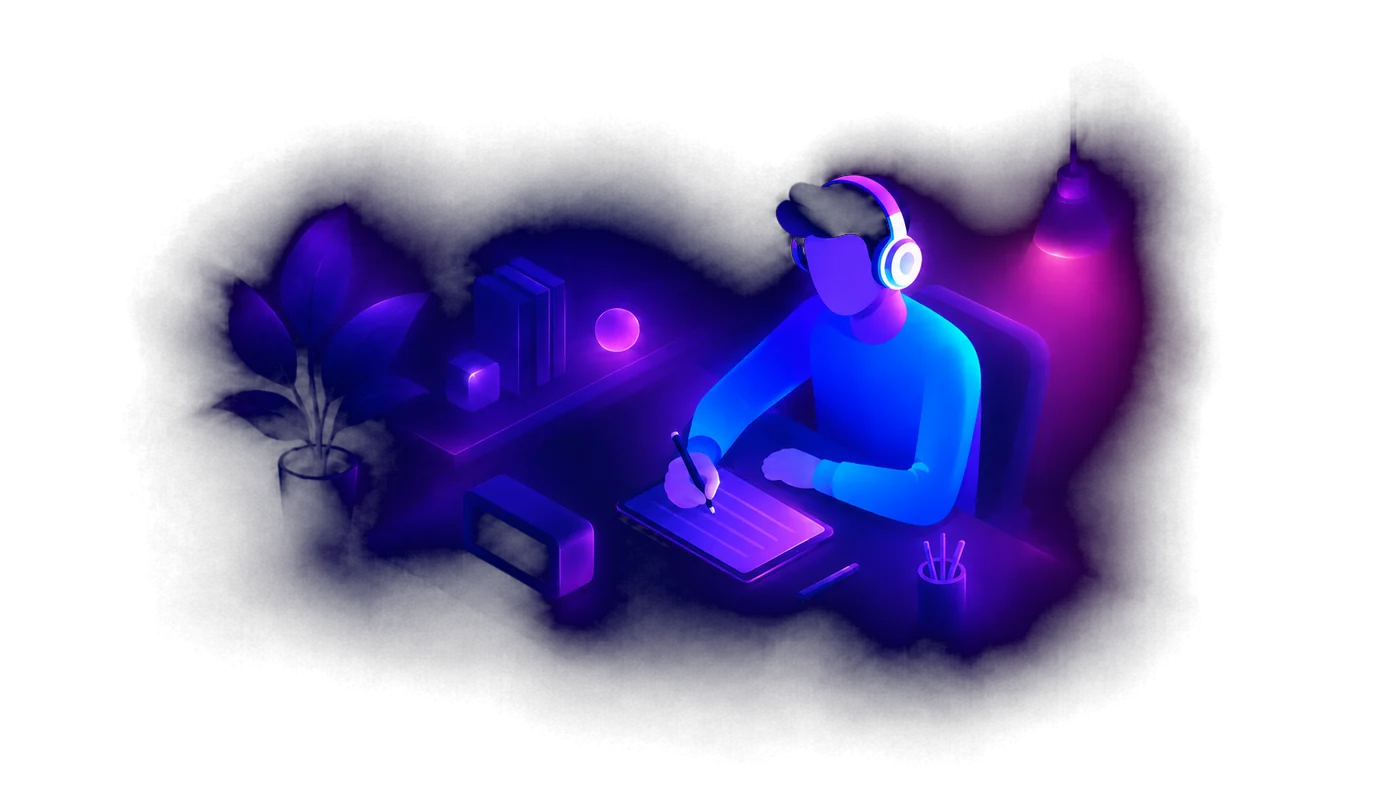
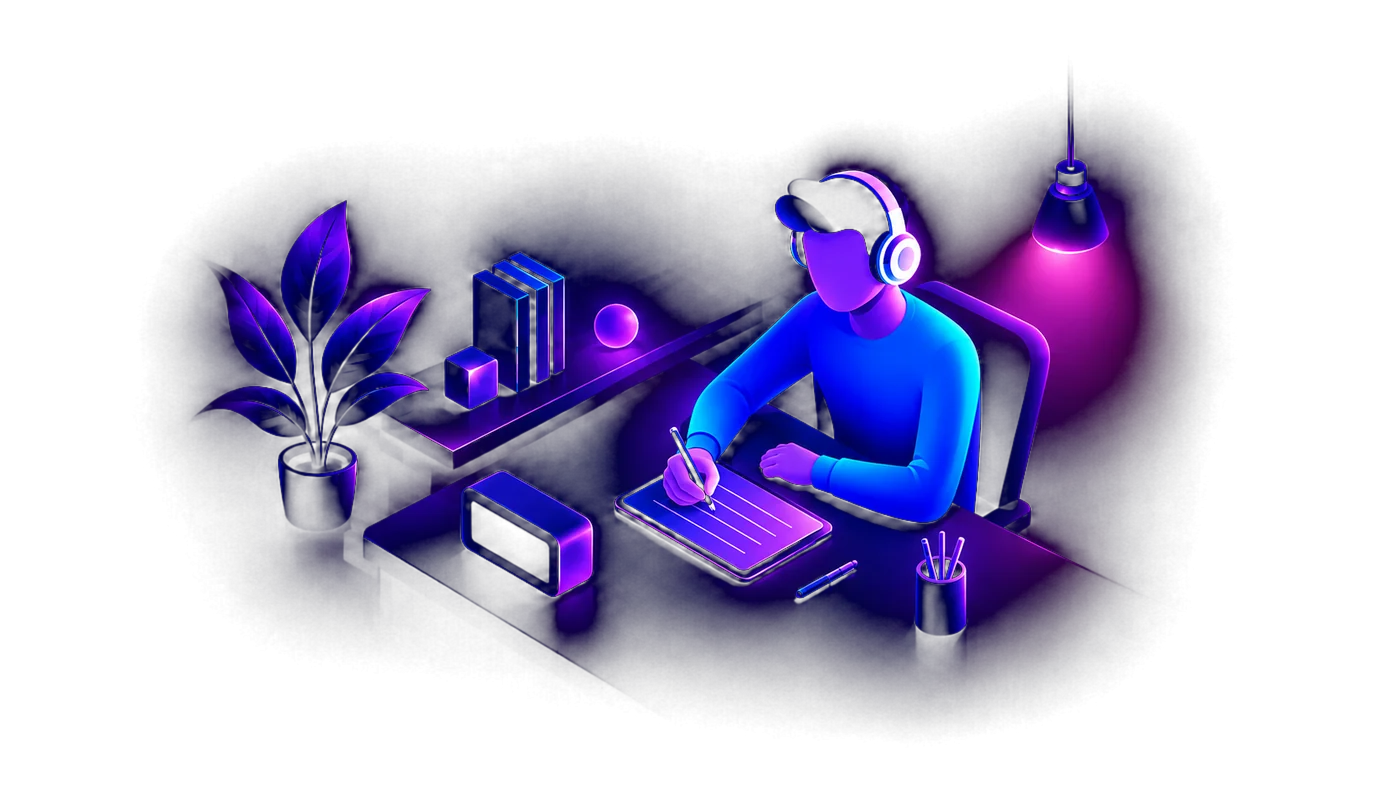
Swap hero artwork; restyle Connect Spotify as a feature card
- New darker isometric scene, luminance-keyed so it fades into the background
- Connect Spotify now uses SignalFeatureCard styling: glowing Spotify glyph,
  "Required" tag, and an accent Connect button matching the signal cards

diff --git a/src/App.jsx b/src/App.jsx
@@ -1635,6 +1635,14 @@ function SetupStep({ children, complete, index, title }) {
   );
 }
 
+function SpotifyGlyph({ className = "" }) {
+  return (
+    <svg aria-hidden="true" className={className} fill="currentColor" viewBox="0 0 24 24">
+      <path d="M12 2C6.477 2 2 6.477 2 12s4.477 10 10 10 10-4.477 10-10S17.523 2 12 2zm4.586 14.424a.623.623 0 01-.857.207c-2.348-1.435-5.304-1.76-8.785-.964a.623.623 0 11-.277-1.215c3.808-.87 7.076-.495 9.712 1.116a.623.623 0 01.207.856zm1.223-2.722a.78.78 0 01-1.072.257c-2.688-1.652-6.786-2.131-9.965-1.166a.78.78 0 11-.452-1.494c3.632-1.102 8.147-.568 11.232 1.327a.78.78 0 01.257 1.076zm.105-2.835c-3.223-1.914-8.54-2.09-11.618-1.156a.935.935 0 11-.542-1.79c3.533-1.072 9.405-.865 13.116 1.338a.936.936 0 01.319 1.283.934.934 0 01-1.275.325z" />
+    </svg>
+  );
+}
+
 // Accent "Enable" pill used to sell the physiological signals. `pulse` adds a
 // living heartbeat to the icon (used for the heart-rate sensor).
 function EnableButton({ accent, children, icon: Icon, pulse = false, ...props }) {
@@ -1826,20 +1834,29 @@ function SetupScreen({
         className="mx-auto flex w-full max-w-2xl animate-rise-up flex-col gap-6"
         style={{ animationDelay: "720ms" }}
       >
-        <SetupStep complete={spotifyStepComplete} index={1} title="Connect Spotify">
-          <div className="flex flex-col gap-3 sm:flex-row sm:items-center sm:justify-between">
-            <span>{spotifyStatusText}</span>
-            {!spotifyAuth.authenticated ? (
-              <GhostButton className="shrink-0" onClick={onConnectSpotify}>
-                Connect
-              </GhostButton>
-            ) : (
-              <GhostButton className="shrink-0" onClick={onDisconnectSpotify}>
-                Switch account
-              </GhostButton>
-            )}
-          </div>
-        </SetupStep>
+        <SignalFeatureCard
+          accent="#1db954"
+          active={spotifyStepComplete}
+          description={spotifyStatusText}
+          icon={SpotifyGlyph}
+          statusText={spotifyStatusText}
+          tag="Required"
+          title="Connect Spotify"
+        >
+          {!spotifyAuth.authenticated ? (
+            <EnableButton accent="#1db954" icon={SpotifyGlyph} onClick={onConnectSpotify}>
+              Connect Spotify
+            </EnableButton>
+          ) : (
+            <button
+              className="text-sm font-semibold text-slate-400 underline-offset-4 transition hover:text-white hover:underline"
+              onClick={onDisconnectSpotify}
+              type="button"
+            >
+              Switch account
+            </button>
+          )}
+        </SignalFeatureCard>
 
         {/* Sell the two on-device physiological signals */}
         <div>